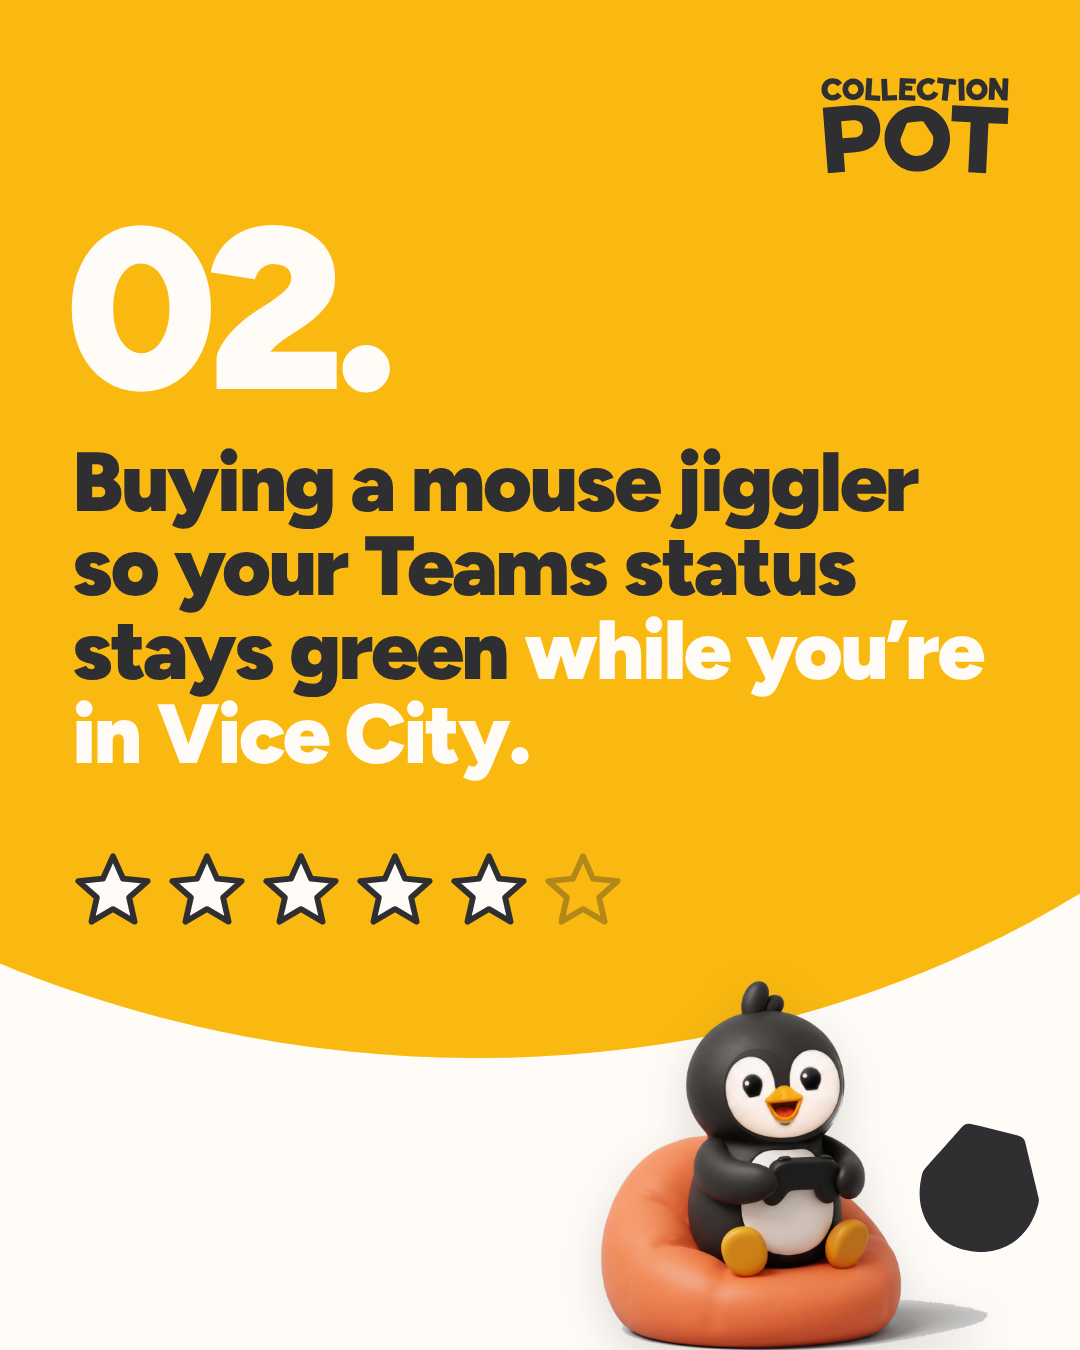
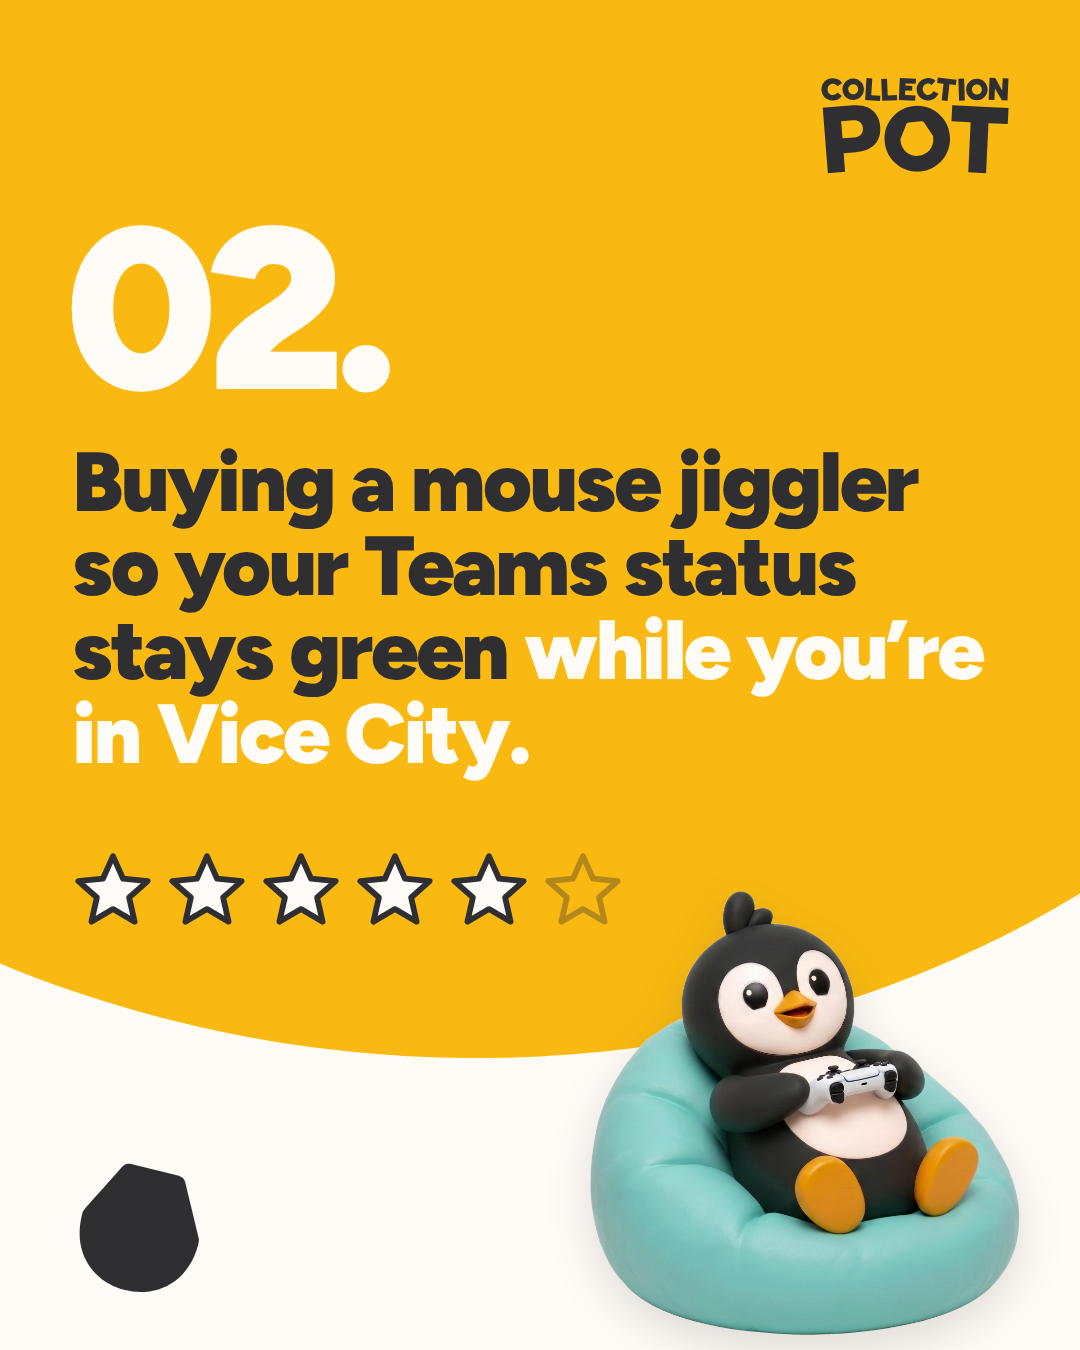
Use official Chip renders (exact, from the team's Drive) in the GTA 6 carousel; add collection-pot/chip-library
Claude-Session: https://claude.ai/code/session_011HgaDvzB2TFRzZhuJwdZ16

Changed region(s): [[0.55, 0.6533, 0.9778, 1.0], [0.0611, 0.84, 0.1833, 0.9644]]

diff --git a/collection-pot/gta6-wanted-level/carousel.html b/collection-pot/gta6-wanted-level/carousel.html
@@ -29,7 +29,7 @@ svg.pot{position:absolute;overflow:visible}
   <img class="logo" src="brand/LogoStacked.svg" style="left:820px;top:76px;width:190px" alt="">
   <div class="a h" style="left:72px;top:250px;width:760px;font-size:118px">Things that raised your <span class="w">wanted level</span> this week:</div>
   <div class="a stars" style="left:72px;top:800px" data-n="6"></div>
-  <img class="chip" src="chip/placeholder-wink.png" style="left:560px;top:930px;width:400px" alt="">
+  <img class="chip" src="chip/c1-wink-wave.png" style="left:640px;top:780px;width:400px" alt="Chip">
 </section>
 
 <!-- 2 · 01 · 3★ · "Chill" layout: white above, the Pot's tilted top edge rising into gold below -->
@@ -39,7 +39,7 @@ svg.pot{position:absolute;overflow:visible}
   <div class="a num g" style="left:66px;top:210px">01.</div>
   <div class="a h" style="left:72px;top:440px;width:900px;font-size:88px">Blocking out Thursday 9–5 as “Deep focus. Do&nbsp;not&nbsp;disturb.”</div>
   <div class="a stars" style="left:72px;top:1000px" data-n="3"></div>
-  <img class="chip" src="chip/placeholder-proud.png" style="left:680px;top:960px;width:340px" alt="">
+  <img class="chip" src="chip/c2-headphones.png" style="left:650px;top:879px;width:370px" alt="Chip">
 </section>
 
 <!-- 3 · 02 · 5★ · "So easy" layout: gold above, the Pot's rounded base sweeping over white below -->
@@ -49,7 +49,7 @@ svg.pot{position:absolute;overflow:visible}
   <div class="a num w" style="left:66px;top:210px">02.</div>
   <div class="a h" style="left:72px;top:440px;width:920px;font-size:84px">Buying a mouse jiggler so your Teams status stays green <span class="w">while you’re in Vice City.</span></div>
   <div class="a stars" style="left:72px;top:850px" data-n="5"></div>
-  <img class="chip" src="chip/beanbag.png" style="left:600px;top:980px;width:390px" alt="">
+  <img class="chip" src="chip/c3-beanbag-gaming.png" style="left:590px;top:891px;width:430px" alt="Chip">
 </section>
 
 <!-- 4 · 03 · 2★ · "Chasing your mates" layout: gold, a white Pot corner bottom-right -->
@@ -59,7 +59,7 @@ svg.pot{position:absolute;overflow:visible}
   <div class="a num w" style="left:66px;top:210px">03.</div>
   <div class="a h" style="left:72px;top:440px;width:920px;font-size:92px">Camera off for Friday’s all-hands: <span class="w">“Sorry, my Wi-Fi’s really bad today.”</span></div>
   <div class="a stars" style="left:72px;top:880px" data-n="2"></div>
-  <img class="chip" src="chip/placeholder-happy.png" style="left:690px;top:990px;width:330px" alt="">
+  <img class="chip" src="chip/c4-shrug.png" style="left:630px;top:880px;width:410px" alt="Chip">
 </section>
 
 <!-- 5 · 04 · 6★ · "Make it one" layout: white, a giant tilted gold Pot from the bottom-right, punctuation Pots -->
@@ -69,7 +69,7 @@ svg.pot{position:absolute;overflow:visible}
   <div class="a num g" style="left:66px;top:210px">04.</div>
   <div class="a h" style="left:72px;top:440px;width:760px;font-size:90px">Coming down with the Thursday–Friday flu. <span class="g">The whole team. Same day.</span></div>
   <div class="a stars" style="left:72px;top:1000px" data-n="6"></div>
-  <img class="chip" src="chip/placeholder-excited.png" style="left:640px;top:880px;width:400px" alt="">
+  <img class="chip" src="chip/c5-confused.png" style="left:680px;top:860px;width:330px" alt="Chip">
 </section>
 
 <!-- 6 · sign-off · 6★ · gold, the logo sitting in a white Pot corner -->
@@ -77,7 +77,7 @@ svg.pot{position:absolute;overflow:visible}
   <div class="pots"></div>
   <div class="a h" style="left:72px;top:230px;width:920px;font-size:140px;line-height:.96">Stay safe out there. <span class="w">HR is watching.</span></div>
   <div class="a stars" style="left:72px;top:800px" data-n="6"></div>
-  <img class="chip" src="chip/placeholder-wave.png" style="left:110px;top:950px;width:360px" alt="">
+  <img class="chip" src="chip/c6-headshot.png" style="left:80px;top:917px;width:430px" alt="Chip">
   <img class="logo" src="brand/LogoStacked.svg" style="left:700px;top:1110px;width:330px" alt="">
 </section>
 
@@ -94,15 +94,15 @@ const W = '#FFFCF8', G = '#F9B910', K = '#2F2F32';
 const spark = (x, y, s, c = G) => `<svg class="spark" viewBox="0 0 24 24" style="left:${x}px;top:${y}px;width:${s}px;height:${s}px"><path d="M12 0C13 7 17 11 24 12C17 13 13 17 12 24C11 17 7 13 0 12C7 11 11 7 12 0Z" fill="${c}"/></svg>`;
 const LAYOUT = {
   // giant white Pot: its left shoulder slices a wedge down the right-hand side
-  s1: pot(1720, 1500, 2300, -22, W) + pot(980, 1240, 150, 10, G) ,
+  s1: pot(1720, 1500, 2300, -22, W),
   // giant gold Pot: its tilted top edge rises across the lower half
-  s2: pot(560, 2340, 2700, -8, G) + pot(560, 1215, 170, -12, 'none', K, 7),
+  s2: pot(560, 2560, 2700, -8, G) + pot(500, 1225, 160, -12, 'none', K, 7),
   // giant gold Pot from above: its rounded base sweeps across the bottom third
-  s3: pot(470, -130, 2300, 6, G) + pot(980, 1190, 120, 14, K),
+  s3: pot(470, -130, 2300, 6, G) + pot(140, 1230, 120, 14, K),
   // white Pot corner bottom-right
   s4: pot(1160, 1640, 1250, -18, W),
   // giant tilted gold Pot rising from the bottom-right, with punctuation Pots and sparkles
-  s5: pot(1360, 1830, 1900, -32, G) + pot(940, 760, 120, 18, K) + pot(1015, 905, 110, -10, 'none', K, 6) + spark(860, 620, 46) + spark(1010, 650, 30),
+  s5: pot(1360, 1830, 1900, -32, G),
   // white Pot corner holding the logo
   s6: pot(980, 1560, 1150, 14, W),
 };

diff --git a/collection-pot/gta6-wanted-level/README.md b/collection-pot/gta6-wanted-level/README.md
@@ -10,14 +10,19 @@ Pot · Pot corner holding the logo). Small solid/outlined Pots and sparkles act 
 Official stacked logo (`brand/LogoStacked.svg`). Sentence-case headlines (Figtree Black standing in for Faro Display Lucky).
 No free-form blobs or waves. Previous version (Pots in a continuous strip) kept as `carousel-v2-strip.html`.
 
-| # | Copy | Wanted level | Chip |
+| # | Copy | Wanted level | Chip (official, from `../chip-library/`) |
 |---|---|---|---|
-| 1 | Things that raised your **wanted level** this week: | ★★★★★★ | placeholder (wink) → *final: guilty, hiding a controller* |
-| 2 | 01. Blocking out Thursday 9–5 as **"Deep focus. Do not disturb."** | ★★★☆☆☆ | placeholder (proud) → *final: headphones + coffee* |
-| 3 | 02. Buying a mouse jiggler so your Teams status stays green **while you're in Vice City.** | ★★★★★☆ | ✅ final: gaming on a beanbag |
-| 4 | 03. Camera off for Friday's all-hands: **"Sorry, my Wi-Fi's really bad today."** | ★★☆☆☆☆ | placeholder (happy) → *final: innocent shrug + laptop* |
-| 5 | 04. Coming down with the Thursday–Friday flu. **The whole team. Same day.** | ★★★★★★ | placeholder (excited) → *final: blanket + thermometer, controller peeking out* |
-| 6 | Stay safe out there. **HR is watching.** | ★★★★★★ | placeholder (wave) → *final: binoculars* |
+| 1 | Things that raised your **wanted level** this week: | ★★★★★★ | `06-wink-wave` |
+| 2 | 01. Blocking out Thursday 9–5 as "Deep focus. Do not disturb." | ★★★☆☆☆ | `39-headphones` |
+| 3 | 02. Buying a mouse jiggler so your Teams status stays green **while you're in Vice City.** | ★★★★★☆ | `01-beanbag-gaming` |
+| 4 | 03. Camera off for Friday's all-hands: **"Sorry, my Wi-Fi's really bad today."** | ★★☆☆☆☆ | `02-shrug` |
+| 5 | 04. Coming down with the Thursday–Friday flu. **The whole team. Same day.** | ★★★★★★ | `04-confused-head-scratch` |
+| 6 | Stay safe out there. **HR is watching.** | ★★★★★★ | `03-headshot-front` |
+
+## Chip
+Chip is used **exactly as supplied** by the Collection Pot team (Google Drive "Examples" folder → `collection-pot/chip-library/`).
+The files in `chip/` are those renders trimmed to their edges and nothing else. Never redraw, regenerate or edit Chip;
+if a pose is missing, ask the team for one.
 
 ## Caption
 GTA 6 dropped and suddenly everyone's Wi-Fi is "really bad" 👀
@@ -25,20 +30,3 @@ What's your wanted level this week? Tag the colleague who's on six stars. ⭐⭐
 
 ## Guardrails
 No Rockstar/GTA logos, art, characters or fonts; the wanted-level stars and "Vice City" carry the reference.
-
-## Chip's face (brand rule)
-Chip's white eye patches are shaped like an **upside-down Pot** (rounded dome on top, straight sides tapering down
-towards the beak), as in `ref/chip-eyes-reference.jpg`. The current Chips had round patches, so `chip/fix_face.py`
-paints the old face out and fits the reference face (eye patches, pupils, beak) onto each head; `--wink` closes the
-right eye. Originals are in `chip/orig/`. Run it on any new Chip render that comes out with round eyes:
-`python3 -I chip/fix_face.py in.png out.png [--wink] --blur 1.2` (use `--blur 0.6` for sharp, high-res renders).
-When generating new Chips, add to the prompt: "white eye patches shaped like an upside-down pot (rounded top, straight
-sides tapering towards the beak), not round".
-
-## Finishing the Chip poses (needs ~16 Higgsfield credits)
-Placeholders are cut from `ref/chip-character-sheet.png` (low-res). To replace them:
-1. Generate with `nano_banana_pro`, 1:1, 2k, `image_references` = the uploaded character sheet (Higgsfield media `cd43c0d6-6f50-4f3e-a7ab-c81ead87bee9`).
-   Prompt base: *"Chip, the exact penguin mascot from the reference character sheet: soft matte 3D clay-like render, black body, white belly, signature double quiff, big round eyes, orange-yellow beak, yellow feet. Full body. Pose: …  Soft studio lighting, gentle contact shadow. Isolated on a plain flat light grey background. No text, no logos."*
-   Poses: guilty with a controller behind his back · yellow headphones, eyes closed, coffee mug · innocent shrug, laptop under wing · pink blanket burrito, thermometer in beak, controller peeking out · peering through binoculars.
-2. Cut out for free: `python3 -I chip/cutout.py raw.png chip/<name>.png --tol 18`
-3. Swap the `src` in `carousel.html`, then `node render.js` → `out/gta6-01.png … gta6-06.png`.

diff --git a/collection-pot/chip-library/README.md b/collection-pot/chip-library/README.md
@@ -1,0 +1,55 @@
+# Chip library (official)
+
+Official Chip renders from the Collection Pot team's Google Drive folder "Examples"
+(https://drive.google.com/drive/folders/15rf7ePjnoYV3bwoQJZu996KW9IGTNMni), downloaded unchanged (transparent PNGs).
+
+**Rule: always use these Chips exactly as they are. Never redraw, regenerate or edit Chip** (trimming/scaling is fine).
+If a pose is missing, ask the team for one rather than generating it.
+
+| File | Original name in Drive |
+|---|---|
+| `01-beanbag-gaming.png` | change-only-the-colour-of-the-beanbag-from-blue-to.png |
+| `02-shrug.png` | chip-the-penguin--shown-full-body-from-head-to-fee (1).png |
+| `03-headshot-front.png` | create-a-profile-headshot-of-this-penguin-characte.png |
+| `04-confused-head-scratch.png` | edit-the-first-reference-image--change-only-the-co.png |
+| `05-hand-on-chest.png` | edit-the-first-reference-image--redraw-only-the-ra.png |
+| `06-wink-wave.png` | edit-the-image--make-the-penguin-wink-with-the-eye.png |
+| `07-wave.png` | fix-the-raised-arm-hand-on-this-penguin-character-.png |
+| `08-snow-slide-envelope.png` | image (61).png |
+| `09-snowman-christmas.png` | image (62).png |
+| `10-igloo-gifts.png` | image (63).png |
+| `11-wave-2.png` | image (78).png |
+| `12-wave-3.png` | image (79).png |
+| `13-head-scratch-smile.png` | image (80).png |
+| `14-head-scratch.png` | image (81).png |
+| `15-phone-teacher-pot.png` | image.png |
+| `16-party-popper.png` | recolor-the-confetti-and-ribbon-streamers-in-this-.png |
+| `17-deckchair.png` | recolor-the-striped-fabric-of-the-deck-chair-in-th.png |
+| `18-happy-wave.png` | remove-the-phone-from-this-image-completely--keep-.png |
+| `19-confetti-jump.png` | replicate-this-exact-penguin-character--chip--prec (1).png |
+| `20-headshot-wink.png` | replicate-this-exact-penguin-character--chip--prec (2).png |
+| `21-headshot-worried.png` | replicate-this-exact-penguin-character--chip--prec (3).png |
+| `22-headshot-neutral.png` | replicate-this-exact-penguin-character--chip--prec (4).png |
+| `23-headshot-laughing.png` | replicate-this-exact-penguin-character--chip--prec (5).png |
+| `24-walking.png` | replicate-this-exact-penguin-character--chip--prec (7).png |
+| `25-holding-gift.png` | replicate-this-exact-penguin-character--chip--prec (8).png |
+| `26-holding-blank-card.png` | replicate-this-exact-penguin-character--chip--prec (9).png |
+| `27-phone-teacher-pot-2.png` | replicate-this-exact-penguin-character--chip--prec (10).png |
+| `28-megaphone.png` | replicate-this-exact-penguin-character--chip--prec (11).png |
+| `29-jumping-happy.png` | replicate-this-exact-penguin-character--chip--prec (12).png |
+| `30-cheerful-wave.png` | replicate-this-exact-penguin-character--chip--prec (13).png |
+| `31-holding-blank-phone.png` | replicate-this-exact-penguin-character--chip--prec (14).png |
+| `32-standing-front.png` | replicate-this-exact-penguin-character--chip--prec (15).png |
+| `33-hard-hat-wrench.png` | replicate-this-exact-penguin-character--chip--prec.png |
+| `34-holding-goodbye-card.png` | replicate-this-exact-penguin-character--chip--seco.png |
+| `35-holding-card-heart.png` | surgical-edit--open-only-the-penguin-s-beak-into-a.png |
+| `36-card-hearts-flying.png` | take-the-penguin-in-the-reference-image-and-keep-h (3).png |
+| `37-cartwheel-envelope.png` | take-the-penguin-in-the-reference-image-and-keep-h (4).png |
+| `38-card-heart-kick.png` | take-the-penguin-in-the-reference-image-and-keep-h (5).png |
+| `39-headphones.png` | take-the-penguin-in-the-reference-image-and-keep-i (1).png |
+| `40-stack-of-gifts.png` | take-the-penguin-in-the-reference-image-and-keep-i (2).png |
+| `41-holding-laptop.png` | take-the-penguin-in-the-reference-image-and-keep-i.png |
+| `42-wink-wave-2.png` | the-penguin-mascot-chip--drawn-exactly-like-the-ch (1).png |
+| `43-wink-wave-3.png` | the-penguin-mascot-chip--drawn-exactly-like-the-ch.png |
+| `44-lying-reading-christmas.png` | use-the-reference-image-as-the-exact-character--co (1).png |
+| `45-beanbag-reading-christmas.png` | use-the-reference-image-as-the-exact-character--co.png |
